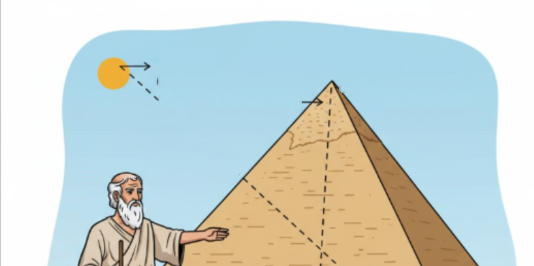
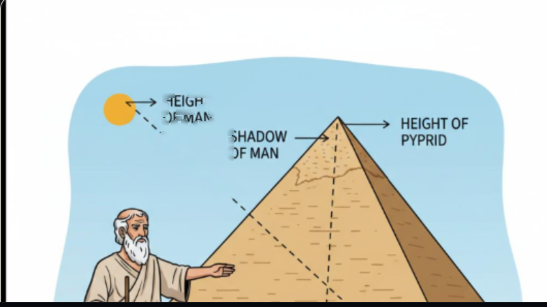
Hero : photo entiere en tete et presentation de l'equipe

diff --git a/index.html b/index.html
@@ -46,6 +46,16 @@
   <!-- ================= HERO ================= -->
   <section class="hero" id="haut">
     <div class="hero-inner">
+      <figure class="hero-photo">
+        <img src="assets/img/hero-pyramide.png" alt="Thalès devant la pyramide : un bâton planté droit, son ombre et celle du monument permettent de calculer la hauteur de la pyramide." width="547" height="307" fetchpriority="high">
+        <figcaption>La mesure de la pyramide par son ombre — la figure fondatrice du chapitre.</figcaption>
+      </figure>
+
+      <p class="hero-presentation">
+        <span class="hero-presentation-label">Présenté par</span>
+        <span class="hero-presentation-names">Imane, Adam, Msaad, Wissal et Rayane</span>
+      </p>
+
       <div class="hero-copy">
         <p class="eyebrow">
           <span class="eyebrow-dot"></span> Géométrie · 3<sup>e</sup> · Chapitre 07
@@ -61,6 +71,15 @@
           la hauteur d'une pyramide, la pente d'un toit, la taille d'un arbre
           que personne ne peut grimper.
         </p>
+
+        <div class="hero-equation" aria-hidden="true">
+          <span class="fraction"><span class="fnum">AM</span><span class="fden">AB</span></span>
+          <span class="eq">=</span>
+          <span class="fraction"><span class="fnum">AN</span><span class="fden">AC</span></span>
+          <span class="eq">=</span>
+          <span class="fraction"><span class="fnum">MN</span><span class="fden">BC</span></span>
+          <span class="eq-tag">= k</span>
+        </div>
 
         <div class="hero-actions">
           <a class="btn btn--primary" href="#histoire">
@@ -79,21 +98,6 @@
           <div><dt>Questions</dt><dd>15</dd></div>
           <div><dt>Lecture</dt><dd>~ 24 min</dd></div>
         </dl>
-      </div>
-
-      <div class="hero-visual">
-        <figure class="hero-photo">
-          <img src="assets/img/hero-pyramide.png" alt="Thalès devant la pyramide : un bâton planté droit, son ombre et celle du monument permettent de calculer la hauteur de la pyramide." width="534" height="266" fetchpriority="high">
-          <figcaption>La mesure de la pyramide par son ombre — la figure fondatrice du chapitre.</figcaption>
-        </figure>
-        <div class="hero-equation" aria-hidden="true">
-          <span class="fraction"><span class="fnum">AM</span><span class="fden">AB</span></span>
-          <span class="eq">=</span>
-          <span class="fraction"><span class="fnum">AN</span><span class="fden">AC</span></span>
-          <span class="eq">=</span>
-          <span class="fraction"><span class="fnum">MN</span><span class="fden">BC</span></span>
-          <span class="eq-tag">= k</span>
-        </div>
       </div>
     </div>
 

diff --git a/assets/css/style.css b/assets/css/style.css
@@ -218,7 +218,6 @@ section[id]{scroll-margin-top:84px}
 .hero-stats dt{font-size:11px;letter-spacing:.14em;text-transform:uppercase;color:var(--muted-2)}
 .hero-stats dd{margin:0;font-family:var(--serif);font-size:24px;letter-spacing:-.01em}
 
-.hero-visual{position:relative;display:flex;flex-direction:column;align-items:center;gap:18px}
 .figure-frame{
   position:relative;width:100%;max-width:520px;border:1px solid var(--line);
   border-radius:24px;background:linear-gradient(165deg,rgba(24,19,25,.9),rgba(14,12,17,.72));
@@ -897,7 +896,6 @@ input[type=range]:focus-visible{outline-offset:6px}
 /* ---------- responsive ---------- */
 @media (max-width:1080px){
   .hero-inner{grid-template-columns:1fr;gap:48px}
-  .hero-visual{order:2;max-width:520px;margin:0 auto;width:100%}
   .hero{padding-top:110px}
   .hero-stats{margin-bottom:10px}
   .section-head{grid-template-columns:88px 1fr}
@@ -1450,7 +1448,6 @@ body{
 .hero-lede{color:#4f4b43}
 .hero-stats{border-top-color:var(--line)}
 .hero-stats dt{color:var(--muted-2)}
-.hero-visual{gap:22px}
 .hero-photo{
   margin:0;width:100%;max-width:560px;padding:12px 12px 0;
   background:#fffdf7;border:1px solid rgba(22,25,31,.14);border-radius:6px;
@@ -1693,4 +1690,30 @@ input[type=range]::-moz-range-thumb{border-color:#fffdf7;box-shadow:0 0 0 1px va
   .hero{padding-top:98px}
   .hero-photo{padding:9px 9px 0}
   .hero-photo figcaption{font-size:10.5px;padding:10px 2px 12px}
+}
+
+/* ---------- hero : la photo entière, en tête ---------- */
+.hero-inner{
+  grid-template-columns:1fr;justify-items:center;text-align:center;gap:0;max-width:1080px;
+}
+.hero-presentation{
+  display:flex;flex-wrap:wrap;align-items:baseline;justify-content:center;gap:.45em;
+  margin:0 0 36px;font-size:11.5px;letter-spacing:.18em;text-transform:uppercase;color:var(--muted);
+}
+.hero-presentation-label{font-weight:600}
+.hero-presentation-names{
+  font-family:var(--serif);font-size:17px;letter-spacing:.01em;text-transform:none;color:var(--ink);
+}
+.hero-photo{width:50%;max-width:560px;min-width:280px;margin:0 0 22px}
+.hero-copy{width:100%;display:flex;flex-direction:column;align-items:center}
+.hero-copy .eyebrow{justify-content:center}
+.hero-lede{max-width:58ch;margin-left:auto;margin-right:auto}
+.hero-equation{width:fit-content;margin:0 auto 34px}
+.hero-actions{justify-content:center}
+.hero-stats{justify-content:center;max-width:760px;margin:0 auto}
+
+@media (max-width:860px){
+  .hero-photo{width:100%;max-width:460px;min-width:0}
+  .hero-presentation{font-size:10.5px;letter-spacing:.14em}
+  .hero-presentation-names{font-size:15.5px}
 }
